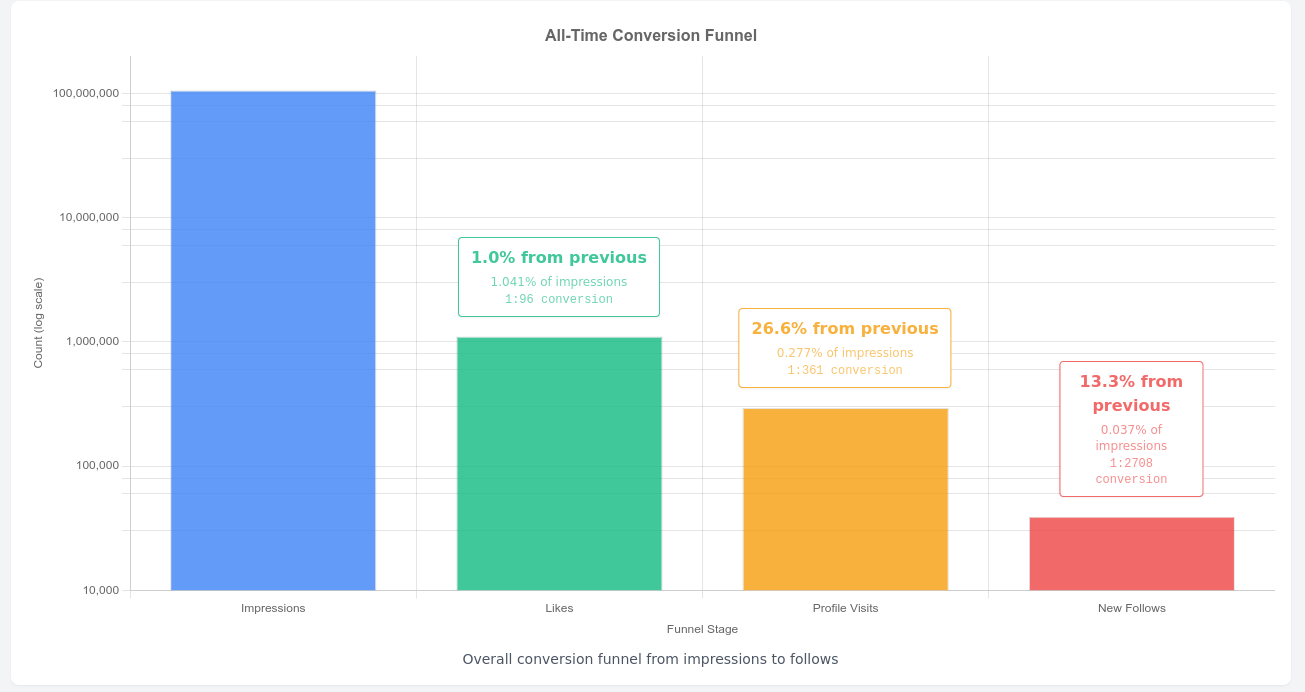
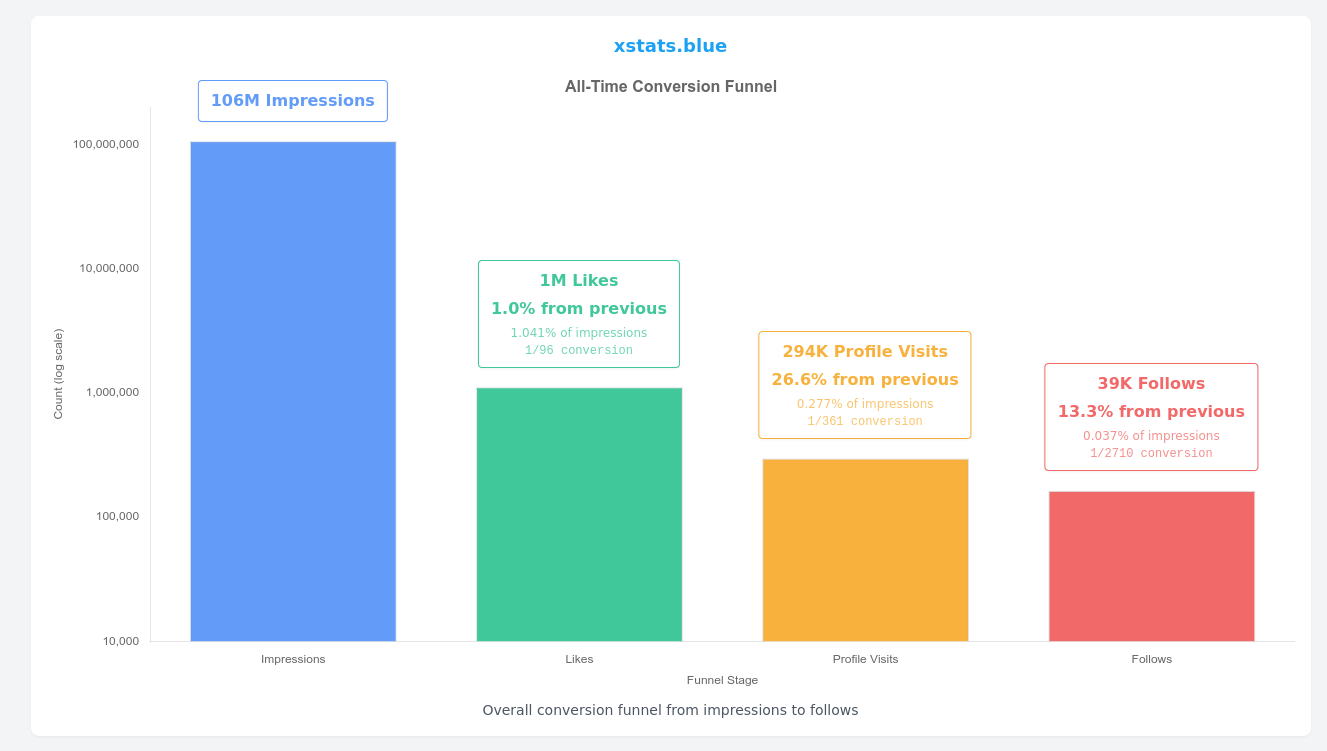
Improve image and graph, re-order page

diff --git a/conversion-dashboard.html b/conversion-dashboard.html
@@ -3,7 +3,26 @@
 <head>
     <meta charset="UTF-8">
     <meta name="viewport" content="width=device-width, initial-scale=1.0">
-    <title>Social Media Conversion Dashboard</title>
+    <title>xstats.blue - Twitter Conversion Analytics</title>
+    
+    <!-- Add meta tags for social sharing -->
+    <meta name="description" content="Analyze your Twitter engagement funnel and conversion rates with this free tool. Upload your Twitter analytics and get instant insights.">
+    <meta name="keywords" content="twitter analytics, social media metrics, engagement funnel, conversion rates">
+    
+    <!-- Open Graph / Facebook -->
+    <meta property="og:type" content="website">
+    <meta property="og:url" content="https://xstats.blue/">
+    <meta property="og:title" content="xstats.blue - Twitter Conversion Analytics">
+    <meta property="og:description" content="Analyze your Twitter engagement funnel and conversion rates with this free tool. Upload your Twitter analytics and get instant insights.">
+    <meta property="og:image" content="https://xstats.blue/preview.png">
+
+    <!-- Twitter -->
+    <meta property="twitter:card" content="summary_large_image">
+    <meta property="twitter:url" content="https://xstats.blue/">
+    <meta property="twitter:title" content="xstats.blue - Twitter Conversion Analytics">
+    <meta property="twitter:description" content="Analyze your Twitter engagement funnel and conversion rates with this free tool. Upload your Twitter analytics and get instant insights.">
+    <meta property="twitter:image" content="https://xstats.blue/preview.png">
+    
     <script src="https://cdnjs.cloudflare.com/ajax/libs/Chart.js/3.7.0/chart.min.js"></script>
     <script src="https://cdnjs.cloudflare.com/ajax/libs/PapaParse/5.3.0/papaparse.min.js"></script>
     <script src="https://cdnjs.cloudflare.com/ajax/libs/date-fns/4.1.0/cdn.min.js" integrity="sha512-bz58Sg3BAWMEMPTH0B8+pK/+5Qfqq6b2Ho2G4ld12x4fiUVqpY8jSbN/73qpBQYFLU4QnKVL5knUm4uqcJGLVw==" crossorigin="anonymous" referrerpolicy="no-referrer"></script>
@@ -66,29 +85,12 @@
 
             <!-- Update dashboard div with canvas elements -->
             <div id="dashboard" class="hidden">
-                <!-- Add chart containers -->
-                <div class="grid grid-cols-1 md:grid-cols-2 gap-6 mb-6">
-                    <div class="bg-white p-4 rounded-lg shadow-sm">
-                        <canvas id="likeConversionChart"></canvas>
-                        <p class="text-sm text-gray-600 text-center mt-2">Percentage of impressions that result in likes</p>
-                    </div>
-                    <div class="bg-white p-4 rounded-lg shadow-sm">
-                        <canvas id="profileVisitConversionChart"></canvas>
-                        <p class="text-sm text-gray-600 text-center mt-2">Percentage of likes that lead to profile visits</p>
-                    </div>
-                </div>
-
-                <!-- Single column for follow conversion -->
-                <div class="mb-6">
-                    <div class="bg-white p-4 rounded-lg shadow-sm">
-                        <canvas id="followConversionChart"></canvas>
-                        <p class="text-sm text-gray-600 text-center mt-2">Percentage of profile visits that convert to follows</p>
-                    </div>
-                </div>
-
                 <!-- Single column for funnel -->
                 <div class="mb-6">
                     <div class="bg-white p-4 rounded-lg shadow-sm">
+                        <div class="text-center mb-2">
+                            <a href="https://xstats.blue" target="_blank" class="text-twitter-blue hover:underline text-lg font-semibold">xstats.blue</a>
+                        </div>
                         <div class="relative">
                             <canvas id="funnelChart"></canvas>
                             <!-- Overlay container with absolute positioning -->
@@ -99,12 +101,53 @@
                 </div>
 
                 <!-- Single column for monthly trends -->
-                <div class="bg-white p-4 rounded-lg shadow-sm">
-                    <div id="cohortFunnelChart"></div>
-                    <p class="text-sm text-gray-600 text-center mt-2">Monthly breakdown of conversion rates across all stages</p>
+                <div class="mb-6">
+                    <div class="bg-white p-4 rounded-lg shadow-sm">
+                        <div id="cohortFunnelChart"></div>
+                        <p class="text-sm text-gray-600 text-center mt-2">Monthly breakdown of conversion rates across all stages</p>
+                    </div>
+                </div>
+
+                <!-- Individual line charts, each on their own line -->
+                <div class="space-y-6">
+                    <div class="bg-white p-4 rounded-lg shadow-sm">
+                        <canvas id="likeConversionChart"></canvas>
+                        <p class="text-sm text-gray-600 text-center mt-2">Percentage of impressions that result in likes</p>
+                    </div>
+                    <div class="bg-white p-4 rounded-lg shadow-sm">
+                        <canvas id="profileVisitConversionChart"></canvas>
+                        <p class="text-sm text-gray-600 text-center mt-2">Percentage of likes that lead to profile visits</p>
+                    </div>
+                    <div class="bg-white p-4 rounded-lg shadow-sm">
+                        <canvas id="followConversionChart"></canvas>
+                        <p class="text-sm text-gray-600 text-center mt-2">Percentage of profile visits that convert to follows</p>
+                    </div>
                 </div>
             </div>
         </div>
+
+        <!-- Footer -->
+        <footer class="mt-12 py-6 border-t border-gray-200">
+            <div class="max-w-7xl mx-auto px-4 flex flex-col sm:flex-row justify-between items-center gap-4">
+                <div class="text-sm text-gray-500">
+                    Built 100% with AI
+                </div>
+                <div class="flex items-center space-x-6">
+                    <div class="flex items-center gap-1">
+                        <svg xmlns="http://www.w3.org/2000/svg" class="h-4 w-4 text-twitter-blue" viewBox="0 0 24 24" fill="currentColor">
+                            <path d="M18.244 2.25h3.308l-7.227 8.26 8.502 11.24H16.17l-5.214-6.817L4.99 21.75H1.68l7.73-8.835L1.254 2.25H8.08l4.713 6.231zm-1.161 17.52h1.833L7.084 4.126H5.117z"/>
+                        </svg>
+                        <a href="https://x.com/nearcyan" target="_blank" rel="noopener" class="text-twitter-blue hover:underline">near</a>
+                    </div>
+                    <div class="flex items-center gap-1">
+                        <svg xmlns="http://www.w3.org/2000/svg" class="h-4 w-4 text-gray-400" viewBox="0 0 24 24" fill="currentColor">
+                            <path fill-rule="evenodd" d="M12 2C6.477 2 2 6.484 2 12.017c0 4.425 2.865 8.18 6.839 9.504.5.092.682-.217.682-.483 0-.237-.008-.868-.013-1.703-2.782.605-3.369-1.343-3.369-1.343-.454-1.158-1.11-1.466-1.11-1.466-.908-.62.069-.608.069-.608 1.003.07 1.531 1.032 1.531 1.032.892 1.53 2.341 1.088 2.91.832.092-.647.35-1.088.636-1.338-2.22-.253-4.555-1.113-4.555-4.951 0-1.093.39-1.988 1.029-2.688-.103-.253-.446-1.272.098-2.65 0 0 .84-.27 2.75 1.026A9.564 9.564 0 0112 6.844c.85.004 1.705.115 2.504.337 1.909-1.296 2.747-1.027 2.747-1.027.546 1.379.202 2.398.1 2.651.64.7 1.028 1.595 1.028 2.688 0 3.848-2.339 4.695-4.566 4.943.359.309.678.92.678 1.855 0 1.338-.012 2.419-.012 2.747 0 .268.18.58.688.482A10.019 10.019 0 0022 12.017C22 6.484 17.522 2 12 2z" clip-rule="evenodd"/>
+                        </svg>
+                        <a href="https://github.com/Nearcyan/twitter-conversion-rates" target="_blank" rel="noopener" class="text-gray-400 hover:text-twitter-blue hover:underline">code</a>
+                    </div>
+                </div>
+            </div>
+        </footer>
 
         <style>
         .text-twitter-blue {
@@ -419,37 +462,59 @@
             const meta = chart.getDatasetMeta(0);
             const dataset = chart.data.datasets[0];
             
-            // Skip the first bar (impressions)
-            for (let i = 1; i < meta.data.length; i++) {
+            // Helper function to format numbers with K/M
+            const formatNumber = (num) => {
+                if (num >= 1000000) {
+                    return Math.round(num / 1000000) + 'M';
+                } else if (num >= 1000) {
+                    return Math.round(num / 1000) + 'K';
+                }
+                return Math.round(num).toString();
+            };
+            
+            // Now include all bars (including impressions)
+            for (let i = 0; i < meta.data.length; i++) {
                 const currentBar = meta.data[i];
                 const currentValue = dataset.data[i];
-                const previousValue = dataset.data[i-1];
+                const previousValue = i > 0 ? dataset.data[i-1] : null;
                 const initialValue = dataset.data[0];
-                
-                const stepConversion = ((currentValue / previousValue) * 100).toFixed(1);
-                const totalConversion = ((currentValue / initialValue) * 100).toFixed(3);
+                const metricName = chart.data.labels[i];
                 
                 const label = document.createElement('div');
                 label.className = 'absolute pointer-events-none';
                 
-                // Position relative to the bar
                 const x = currentBar.x;
-                const y = currentBar.y - 20; // Adjust this value to position above the bar
+                const y = currentBar.y - 20;
                 
                 label.style.left = `${x}px`;
                 label.style.top = `${y}px`;
                 label.style.transform = 'translate(-50%, -100%)';
                 
-                label.innerHTML = `
-                    <div class="bg-white px-3 py-2 rounded shadow-sm text-center" 
-                         style="color: ${dataset.backgroundColor[i]}; border: 1px solid ${dataset.backgroundColor[i]}">
-                        <div class="mb-1 font-bold">${stepConversion}% from previous</div>
-                        <div class="opacity-75 text-xs space-y-0.5">
-                            <div>${totalConversion}% of impressions</div>
-                            <div class="font-mono">1:${Math.round(initialValue/currentValue)} conversion</div>
+                if (i === 0) {
+                    // Impressions bar - simple label
+                    label.innerHTML = `
+                        <div class="bg-white px-3 py-2 rounded shadow-sm text-center" 
+                             style="color: ${dataset.backgroundColor[i]}; border: 1px solid ${dataset.backgroundColor[i]}">
+                            <div class="font-bold">${formatNumber(currentValue)} ${metricName}</div>
                         </div>
-                    </div>
-                `;
+                    `;
+                } else {
+                    // Other bars - full stats
+                    const stepConversion = ((currentValue / previousValue) * 100).toFixed(1);
+                    const totalConversion = ((currentValue / initialValue) * 100).toFixed(3);
+                    
+                    label.innerHTML = `
+                        <div class="bg-white px-3 py-2 rounded shadow-sm text-center whitespace-nowrap" 
+                             style="color: ${dataset.backgroundColor[i]}; border: 1px solid ${dataset.backgroundColor[i]}">
+                            <div class="font-bold mb-1">${formatNumber(currentValue)} ${metricName}</div>
+                            <div class="mb-1 font-bold whitespace-nowrap">${stepConversion}% from previous</div>
+                            <div class="opacity-75 text-xs space-y-0.5">
+                                <div class="whitespace-nowrap">${totalConversion}% of impressions</div>
+                                <div class="font-mono whitespace-nowrap">1/${Math.round(initialValue/currentValue)} conversion</div>
+                            </div>
+                        </div>
+                    `;
+                }
                 
                 labelsContainer.appendChild(label);
             }
@@ -553,7 +618,7 @@
                 { step: 'Impressions', value: funnelTotals.impressions },
                 { step: 'Likes', value: funnelTotals.likes },
                 { step: 'Profile Visits', value: funnelTotals.profileVisits },
-                { step: 'New Follows', value: funnelTotals.newFollows }
+                { step: 'Follows', value: funnelTotals.newFollows }
             ];
 
             // Create or update funnel chart
@@ -572,7 +637,10 @@
                             'rgba(245, 158, 11, 0.8)',  // yellow
                             'rgba(239, 68, 68, 0.8)'    // red
                         ],
-                        borderWidth: 1
+                        borderWidth: 1,
+                        barThickness: 'flex',
+                        maxBarThickness: 400,
+                        minBarLength: 150
                     }]
                 },
                 options: {
@@ -610,12 +678,18 @@
                         y: {
                             type: 'logarithmic',
                             beginAtZero: true,
+                            grid: {
+                                display: false  // Remove horizontal grid lines
+                            },
                             title: {
                                 display: true,
                                 text: 'Count (log scale)'
                             }
                         },
                         x: {
+                            grid: {
+                                display: false  // Remove vertical grid lines
+                            },
                             title: {
                                 display: true,
                                 text: 'Funnel Stage'
